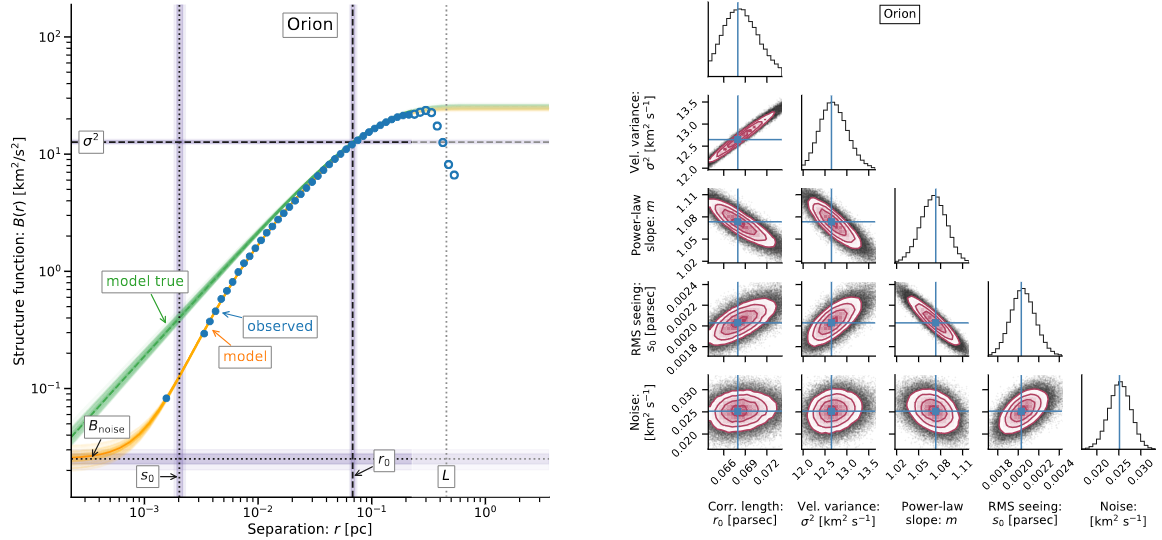
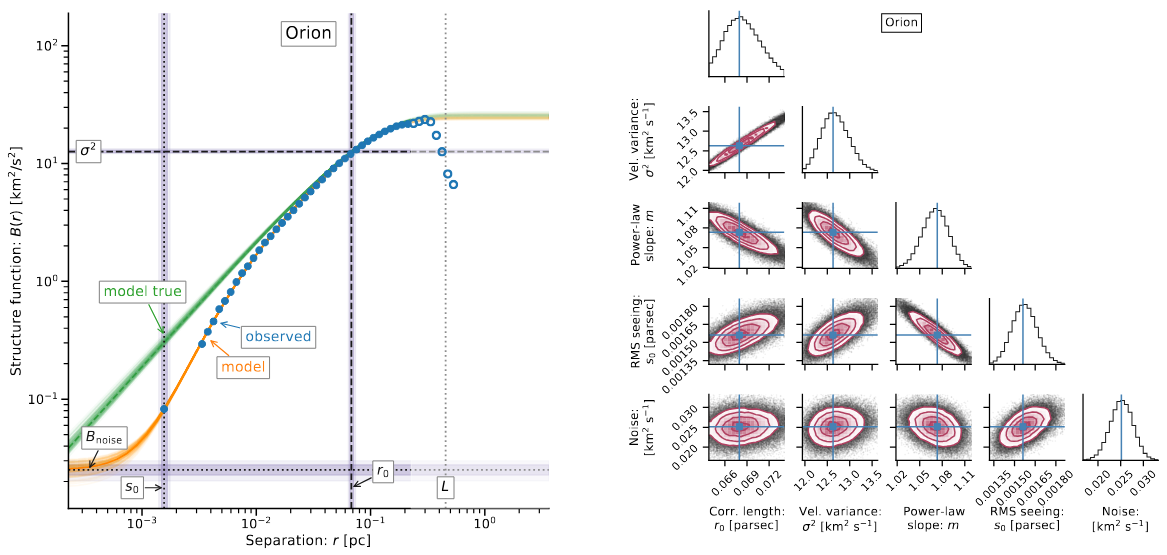
H II regions Paper I update

diff --git a/Turbulent archive/VIENTO structure function parameters.md b/Turbulent archive/VIENTO structure function parameters.md
@@ -16,37 +16,37 @@
 
 1. https://ui.adsabs.harvard.edu/abs/2023MNRAS.523.4202G/abstract
 
-| Region                 | Inst. / Telescope (Obs.) | Emission line                                                                              | $\sigma_\text{POS}$ [km/s] | $r_0$ [pc]     | $m$ [-]      | Citation |
-| ---------------------- | ------------------------ | ------------------------------------------------------------------------------------------ | -------------------------- | -------------- | ------------ | -------- |
-| M 42 (Orion) - EON     | FP/LHO                   | $\text{H} \alpha$ [1](<../H II regions/M 42/M 42.md#Structure Function#FP#Ha>)             | $5.0(0.6)$                 | $0.5(0.2)$     | $1.0$        | 1        |
-|                        |                          | $\text{[NII]}$                                                                             |                            |                |              |          |
-|                        |                          | $\text{[OIII]}$                                                                            |                            |                |              |          |
-|                        |                          | $\text{[SII]}$                                                                             |                            |                |              |          |
-| M 42 (Orion) - Huygens | MUSE/UT4                 | $\text{H} \alpha$                                                                          |                            |                |              |          |
-|                        |                          | $\text{[OIII]}$                                                                            |                            |                |              |          |
-|                        |                          | $\text{[NII]}$                                                                             |                            |                |              |          |
-|                        |                          | $\text{[SIII]}$                                                                            |                            |                |              |          |
-|                        |                          | $\text{[ArIII]}$                                                                           |                            |                |              |          |
-|                        | Echelle/KPNO             | $\text{H} \alpha$ [1](<../H II regions/M 42/M 42.md#Structure Function#KPNO#Ha>)           | $13(1)$                    | $0.068(0.006)$ | $1.07(0.04)$ | 1        |
-|                        |                          | $\text{[OIII]}$                                                                            |                            |                |              |          |
-|                        |                          | $\text{[SII]}$                                                                             |                            |                |              |          |
-|                        |                          | $\text{[NII]}$                                                                             |                            |                |              |          |
-| M 8 (Lagoon)           | FLAMES/UT2               | $\text{H} \alpha$ [1](<../H II regions/M 8/M 8.md#FLAMES#Ha>)                              | $7(1)$                     | $1.0(0.2)$     | $1.26(0.20)$ | 1        |
-|                        |                          | $\text{[NII]}$                                                                             |                            |                |              |          |
-|                        |                          | $\text{[SII]}$                                                                             |                            |                |              |          |
-| Carina                 | FLAMES/UT2               | $\text{H} \alpha$ [1](<../H II regions/NGC 3375/NGC 3375.md#FLAMES#Ha>)                    | $18(2)$                    | $0.6(0.1)$     | $1.16(0.28)$ | 1        |
-|                        |                          | $\text{[NII]}$                                                                             |                            |                |              |          |
-|                        |                          | $\text{[SII]}$                                                                             |                            |                |              |          |
-| NGC 2070 (30 Dor)      | MUSE/UT4                 | $\text{H} \alpha$ [1](<../H II regions/NGC 2070/NGC 2070.md#MUSE#Ha>)                      | $297(40)$                  | $4(1)$         | $0.85(0.13)$ | 1        |
-|                        |                          | $\text{[NII]}$                                                                             |                            |                |              |          |
-| NGC 346                | MUSE/UT4                 | $\text{H} \alpha$ [1](<../H II regions/NGC 346/NGC 346.md#Structure Function#MUSE#Ha>)     | $33(3)$                    | $2.4(0.3)$     | $0.95(0.07)$ | 1        |
-|                        |                          | $\text{[OIII]}$                                                                            |                            |                |              |          |
-|                        |                          | $\text{[SII]}$                                                                             |                            |                |              |          |
-| Hubble X               | TAURUS-II/WHT            | $\text{H} \alpha$ [1](<../H II regions/Hubble X/Hubble X.md#Structure Function#TAURUS#Ha>) | $15(3)$                    | $4.0(0.5)$     | $1.02(0.23)$ | 1        |
-| Hubble V               | TAURUS-II/WHT            | $\text{H} \alpha$ [1](<../H II regions/Hubble V/Hubble V.md#Structure Function#TAURUS#Ha>) | $10(3)$                    | $3.6(1)$       | $0.81(0.28)$ | 1        |
-| NGC 595                | TAURUS-II/WHT            | $\text{H} \alpha$ [1](<../H II regions/NGC 595/NGC 595.md#Structure Function#TAURUS#Ha>)   | $53(5)$                    | $11(1)$        | $1.36(0.15)$ | 1        |
-| NGC 604                | TAURUS-II/WHT            | $\text{H} \alpha$ [1](<../H II regions/NGC 604/NGC 604.md#Ha>)                             | $84(22)$                   | $12(6)$        | $0.77(0.22)$ | 1        |
-|                        |                          | $\text{[OIII]}$                                                                            |                            |                |              |          |
+| Region                 | Inst. / Telescope (Obs.) | Emission line                                                                              | $\sigma_\text{POS}$ [km/s] | $r_0$ [pc]     | $m$ [-]      | Citation |     |
+| ---------------------- | ------------------------ | ------------------------------------------------------------------------------------------ | -------------------------- | -------------- | ------------ | -------- | --- |
+| M 42 (Orion) - EON     | FP/LHO                   | $\text{H} \alpha$ [1](<../H II regions/M 42/M 42.md#OHL#Ha>)                               | $5.0(0.6)$                 | $0.5(0.2)$     | $1.0$        | 1        |     |
+|                        |                          | $\text{[NII]}$                                                                             |                            |                |              |          |     |
+|                        |                          | $\text{[OIII]}$                                                                            |                            |                |              |          |     |
+|                        |                          | $\text{[SII]}$                                                                             |                            |                |              |          |     |
+| M 42 (Orion) - Huygens | MUSE/UT4                 | $\text{H} \alpha$                                                                          |                            |                |              |          |     |
+|                        |                          | $\text{[OIII]}$                                                                            |                            |                |              |          |     |
+|                        |                          | $\text{[NII]}$                                                                             |                            |                |              |          |     |
+|                        |                          | $\text{[SIII]}$                                                                            |                            |                |              |          |     |
+|                        |                          | $\text{[ArIII]}$                                                                           |                            |                |              |          |     |
+|                        | Echelle/KPNO             | $\text{H} \alpha$ [1](<../H II regions/M 42/M 42.md#KPNO (Echelle Spectroscopy)#Ha>)       | $13(1)$                    | $0.068(0.006)$ | $1.07(0.04)$ | 1        |     |
+|                        |                          | $\text{[OIII]}$                                                                            |                            |                |              |          |     |
+|                        |                          | $\text{[SII]}$                                                                             |                            |                |              |          |     |
+|                        |                          | $\text{[NII]}$                                                                             |                            |                |              |          |     |
+| M 8 (Lagoon)           | FLAMES/UT2               | $\text{H} \alpha$ [1](<../H II regions/M 8/M 8.md#FLAMES#Ha>)                              | $7(1)$                     | $1.0(0.2)$     | $1.26(0.20)$ | 1        |     |
+|                        |                          | $\text{[NII]}$                                                                             |                            |                |              |          |     |
+|                        |                          | $\text{[SII]}$                                                                             |                            |                |              |          |     |
+| Carina                 | FLAMES/UT2               | $\text{H} \alpha$ [1](<../H II regions/NGC 3375/NGC 3375.md#FLAMES#Ha>)                    | $18(2)$                    | $0.6(0.1)$     | $1.16(0.28)$ | 1        |     |
+|                        |                          | $\text{[NII]}$                                                                             |                            |                |              |          |     |
+|                        |                          | $\text{[SII]}$                                                                             |                            |                |              |          |     |
+| NGC 2070 (30 Dor)      | MUSE/UT4                 | $\text{H} \alpha$ [1](<../H II regions/NGC 2070/NGC 2070.md#MUSE#Ha>)                      | $297(40)$                  | $4(1)$         | $0.85(0.13)$ | 1        |     |
+|                        |                          | $\text{[NII]}$                                                                             |                            |                |              |          |     |
+| NGC 346                | MUSE/UT4                 | $\text{H} \alpha$ [1](<../H II regions/NGC 346/NGC 346.md#Structure Function#MUSE#Ha>)     | $33(3)$                    | $2.4(0.3)$     | $0.95(0.07)$ | 1        |     |
+|                        |                          | $\text{[OIII]}$                                                                            |                            |                |              |          |     |
+|                        |                          | $\text{[SII]}$                                                                             |                            |                |              |          |     |
+| Hubble X               | TAURUS-II/WHT            | $\text{H} \alpha$ [1](<../H II regions/Hubble X/Hubble X.md#Structure Function#TAURUS#Ha>) | $15(3)$                    | $4.0(0.5)$     | $1.02(0.23)$ | 1        |     |
+| Hubble V               | TAURUS-II/WHT            | $\text{H} \alpha$ [1](<../H II regions/Hubble V/Hubble V.md#Structure Function#TAURUS#Ha>) | $10(3)$                    | $3.6(1)$       | $0.81(0.28)$ | 1        |     |
+| NGC 595                | TAURUS-II/WHT            | $\text{H} \alpha$ [1](<../H II regions/NGC 595/NGC 595.md#Structure Function#TAURUS#Ha>)   | $53(5)$                    | $11(1)$        | $1.36(0.15)$ | 1        |     |
+| NGC 604                | TAURUS-II/WHT            | $\text{H} \alpha$ [1](<../H II regions/NGC 604/NGC 604.md#Ha>)                             | $84(22)$                   | $12(6)$        | $0.77(0.22)$ | 1        |     |
+|                        |                          | $\text{[OIII]}$                                                                            |                            |                |              |          |     |
 
 
 

diff --git a/H II regions/M 42/M 42.md b/H II regions/M 42/M 42.md
@@ -7,6 +7,8 @@
 - $\text{log } Q_0 = 49.12 \text{ photons/s}$ [[SimonDiaz et al. 2006|1]]
 - $\sigma_\text{LOS} = 9.9 \pm 1.2 \text{ km/s}$ >- $Z = 0.016$ [1](https://iopscience.iop.org/article/10.1086/317983)
 
+# Info
+
 - The Orion nebula (M 42)  is the closes Galactic H II region and corresponds to one of the most observed objects in the sky.
 -  A reviews of the main features of the region is given in ODell  2001.
 - The central part of M 42 is home to four massive stars, one O- and three B-type stars, that make up the Trapezium clusters of which theta 1 Ori C (spectral-type O7) is the most luminous. There stars are ionizing the surrounding material.
@@ -19,6 +21,19 @@
 - Another sulphur abundance parameter computed for both Galactic and extragalactic H II regions is given by S23= \[SII] + \[SIII]/Hb, which is commonly used to determine star formation histories and evolutionary scenarios, as this parameter is found to vary as a function of position within the galaxy.
 - S23 and O ratos can be used to analyze the ionization structure. Together with velocity map, the combination has been used to detect a previously unknow outflow in Eagle nebula and has been applied to Orion.
 
+## Kinematics
+
+| Orion core             | Ha [km/s] | \[OIII\] [km/s] | \[SII\] [km/s] | \[NII\] [km/s] | Notes |
+| ---------------------- | --------- | --------------- | -------------- | -------------- | ----- |
+|                        |           |                 |                |                |       |
+| [[Arthur et al. 2016]] | 3.06      | 3.19            | 2.33           | 2.37           |       |
+
+| EON            | Ha [km/s] | \[OIII\] [km/s] | \[SII\] [km/s] | \[NII\] [km/s] | Notes |     |
+| -------------- | --------- | --------------- | -------------- | -------------- | ----- | --- |
+|                |           |                 |                |                |       |     |
+| [[Hanel 1987]] | 3.20      | 2.76            | 4.83           | 3.83           |       |     |
+
+
 # Images
 
 - [Orion HST](https://hla.stsci.edu/cgi-bin/display?image=hlsp_orion_hst_acs_colorimage_r_v1,hlsp_orion_hst_acs_colorimage_g_v1,hlsp_orion_hst_acs_colorimage_b_v1&autoscale=99.9&title=ORION+colorimage+ACS+r_g_b)
@@ -30,62 +45,63 @@
 <img src="Figs/M 42 observations.png" alt="Image one" width="400">
 # Observations
 
-- [[#MUSE]]
-- [[#KPNO|KPNO Echelle]]
-- [[#OHL]]
+- VLT - MUSE
+- KPNO - Echelle
+- OHL - FP
+- LVM #TBD
 
 
 <img src="Figs/M 42 obs.png" alt="Image one" width="600">
 
-##  MUSE
+# MUSE
+
+- [!] MUSE Orion
 
 - The MUSE integral field observations of the Orion nebula were taken during the instrument's commissioning run on 2014 February 16. 
 - The $6 \ \text{arcmin} \times 5 \ \text{arcmin}$ mosaic consists of $60 \times 5 \ \text{s}$ exposures, where each of the $30$ mosaic pointing's was observed twice with a $90 \degree$ rotation dither pattern.
 - The data reduction was carried out in the `ESOREX` environment with the MUSE pipeline. Weilbacher et al 2012, 2015
 - The observations were carried out in the wide field mode with a field of views of $1 \ \text{arcmin} \times 1 \ \text{arcmin}$, in the wavelength range of $4595-9366  \mathring{A}$ and a sampling of $0.2 \ \text{arcmin} \times 0.2 \ \text{arcmin} \times 0.85 \mathring{A}$.
 
-## KPNO (Echelle Spectroscopy)
+# KPNO (Echelle Spectroscopy)
 
 - [Velocity Structure in the Orion Nebula. I. Spectral Mapping in Low-Ionization Lines](https://ui.adsabs.harvard.edu/abs/2007AJ....133..952G/abstract)
 - [Velocity Structure in the Orion Nebula. II. Emission Line Atlas of Partially Ionized to Fully Ionized Gas](https://ui.adsabs.harvard.edu/abs/2008RMxAA..44..181G/abstract)
 
+## Ha
+
 <img src="Figs/KPNO H maps.png" alt="Image one" width="500">
+
+<img src="Figs/KPNO H SF.png" alt="Image one" width="800">
+
+## \[NII\]
 
 <img src="Figs/KPNO N maps.png" alt="Image one" width="500">
 
+## \[OIII\]
+
 <img src="Figs/KPNO O maps.png" alt="Image one" width="500">
 
+## \[SII\]
+
 <img src="Figs/KPNO S maps.png" alt="Image one" width="500">
-## OHL
+
+---
+#  OHL
+
+## Ha
 
 <img src="Figs/OHL H vc map.png" alt="Image one" width="500">
 
+
+<img src="Figs/OHL H SF.png" alt="Image one" width="800">
+
+## \[OIII\]
+
+
 <img src="Figs/OHL O vc map.png" alt="Image one" width="500">
+
+## \[SII\]
 
 <img src="Figs/OHL S vc map.png" alt="Image one" width="500">
 
 
-# Kinematics
-
-| Orion core             | Ha [km/s] | \[OIII\] [km/s] | \[SII\] [km/s] | \[NII\] [km/s] | Notes |
-| ---------------------- | --------- | --------------- | -------------- | -------------- | ----- |
-|                        |           |                 |                |                |       |
-| [[Arthur et al. 2016]] | 3.06      | 3.19            | 2.33           | 2.37           |       |
-
-| EON            | Ha [km/s] | \[OIII\] [km/s] | \[SII\] [km/s] | \[NII\] [km/s] | Notes |
-| -------------- | --------- | --------------- | -------------- | -------------- | ----- |
-|                |           |                 |                |                |       |
-| [[Hanel 1987]] | 3.20      | 2.76            | 4.83           | 3.83           |       |
-|                |           |                 |                |                |       |
-# Structure function
-
-## KPNO
-
-### Ha
-<img src="Figs/KPNO H SF.png" alt="Image one" width="800">
-
-
-## FP
-
-### Ha
-<img src="Figs/FP H SF.png" alt="Image one" width="800">

diff --git a/H II regions/M 8/M 8.md b/H II regions/M 8/M 8.md
@@ -15,8 +15,10 @@
 ---
 # FLAMES
 
+<img src="Figs/FLAMES.png" alt="Image one" width="550">
+
 ## Ha
 
-<img src="Figs/FLAMES H Maps.png" alt="Image one" width="800">
+<img src="Figs/FLAMES H VR.png" alt="Image one" width="425">
 
 <img src="Figs/FLAMES H SF.png" alt="Image one" width="800">

diff --git a/H II regions/NGC 3375/NGC 3375.md b/H II regions/NGC 3375/NGC 3375.md
@@ -15,8 +15,10 @@
 ---
 # FLAMES
 
+<img src="Figs/FLAMES.png" alt="Image one" width="350">
+
 ## Ha
 
-<img src="Figs/FLAMES H VR.png" alt="Image one" width="400">
+<img src="Figs/FLAMES H VR.png" alt="Image one" width="300">
 
 <img src="Figs/FLAMES H SF.png" alt="Image one" width="800">
